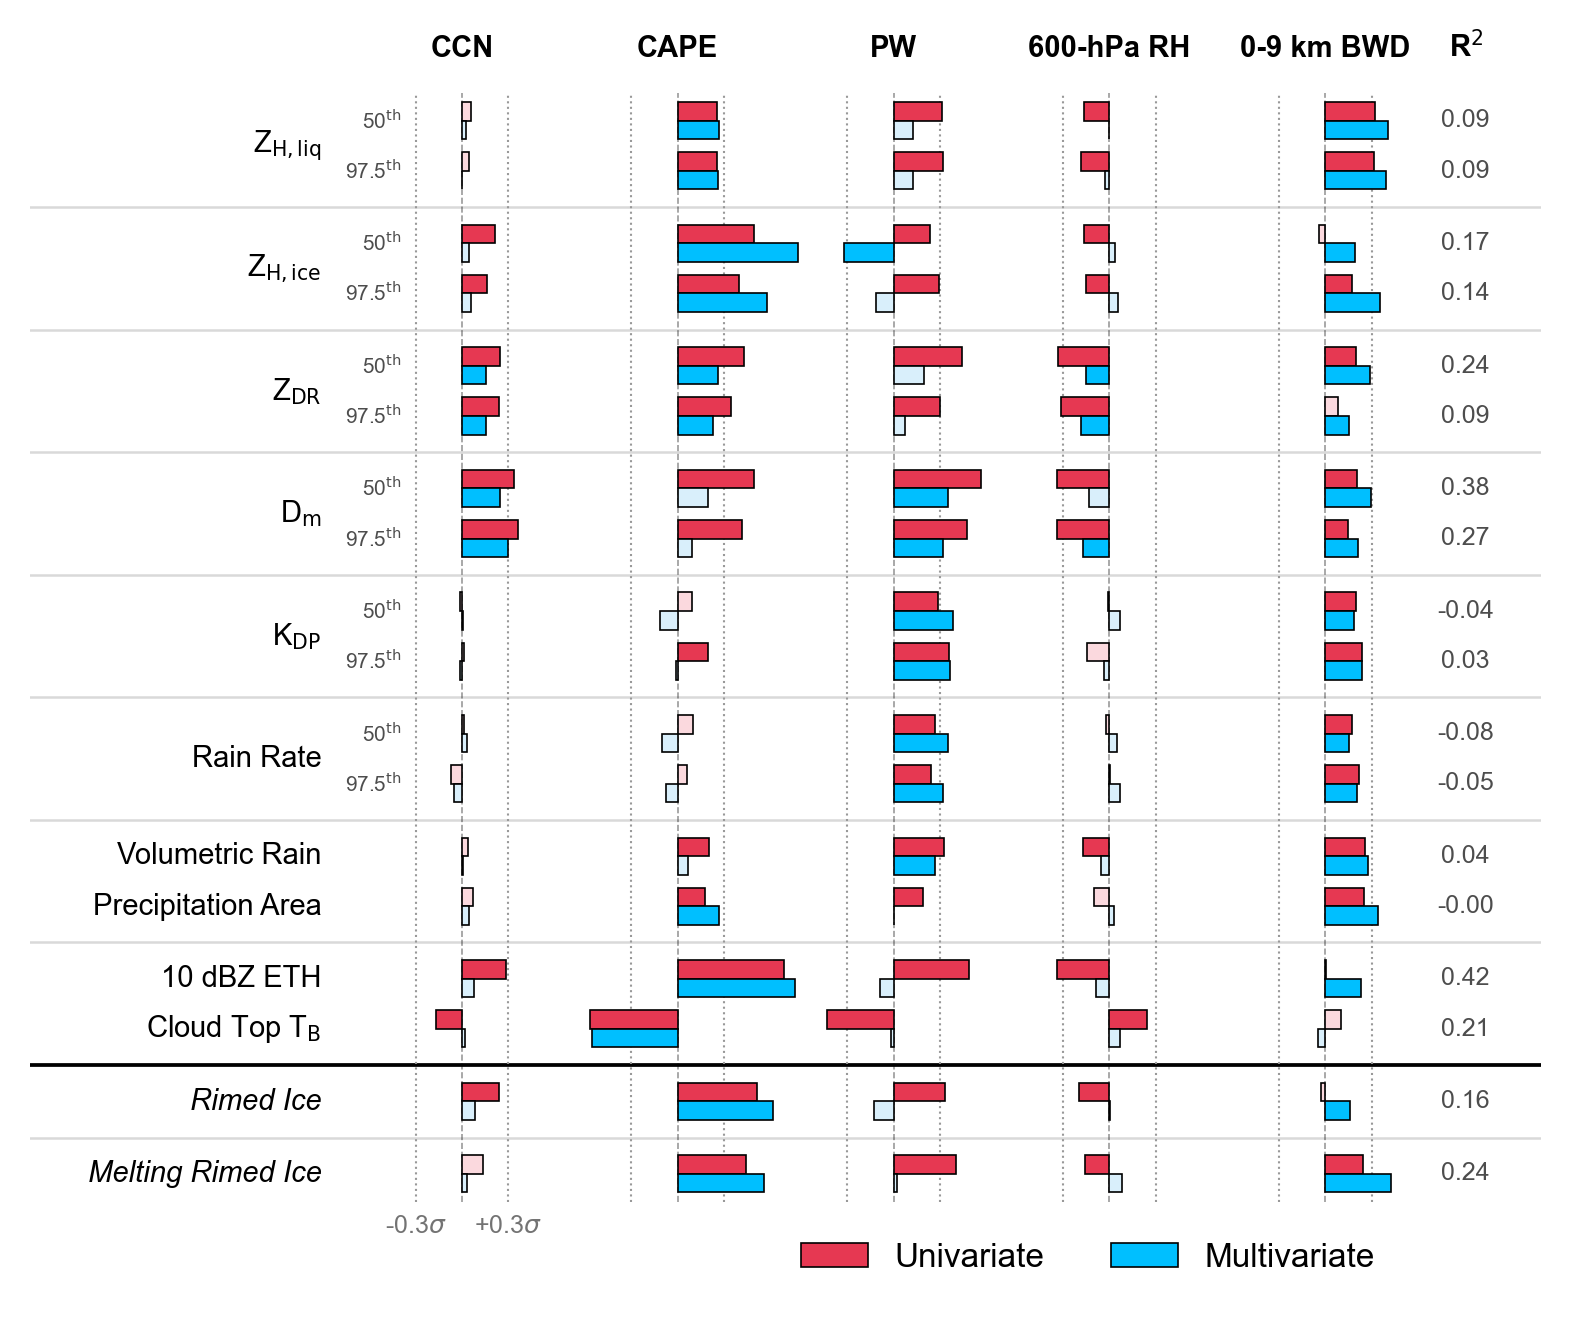
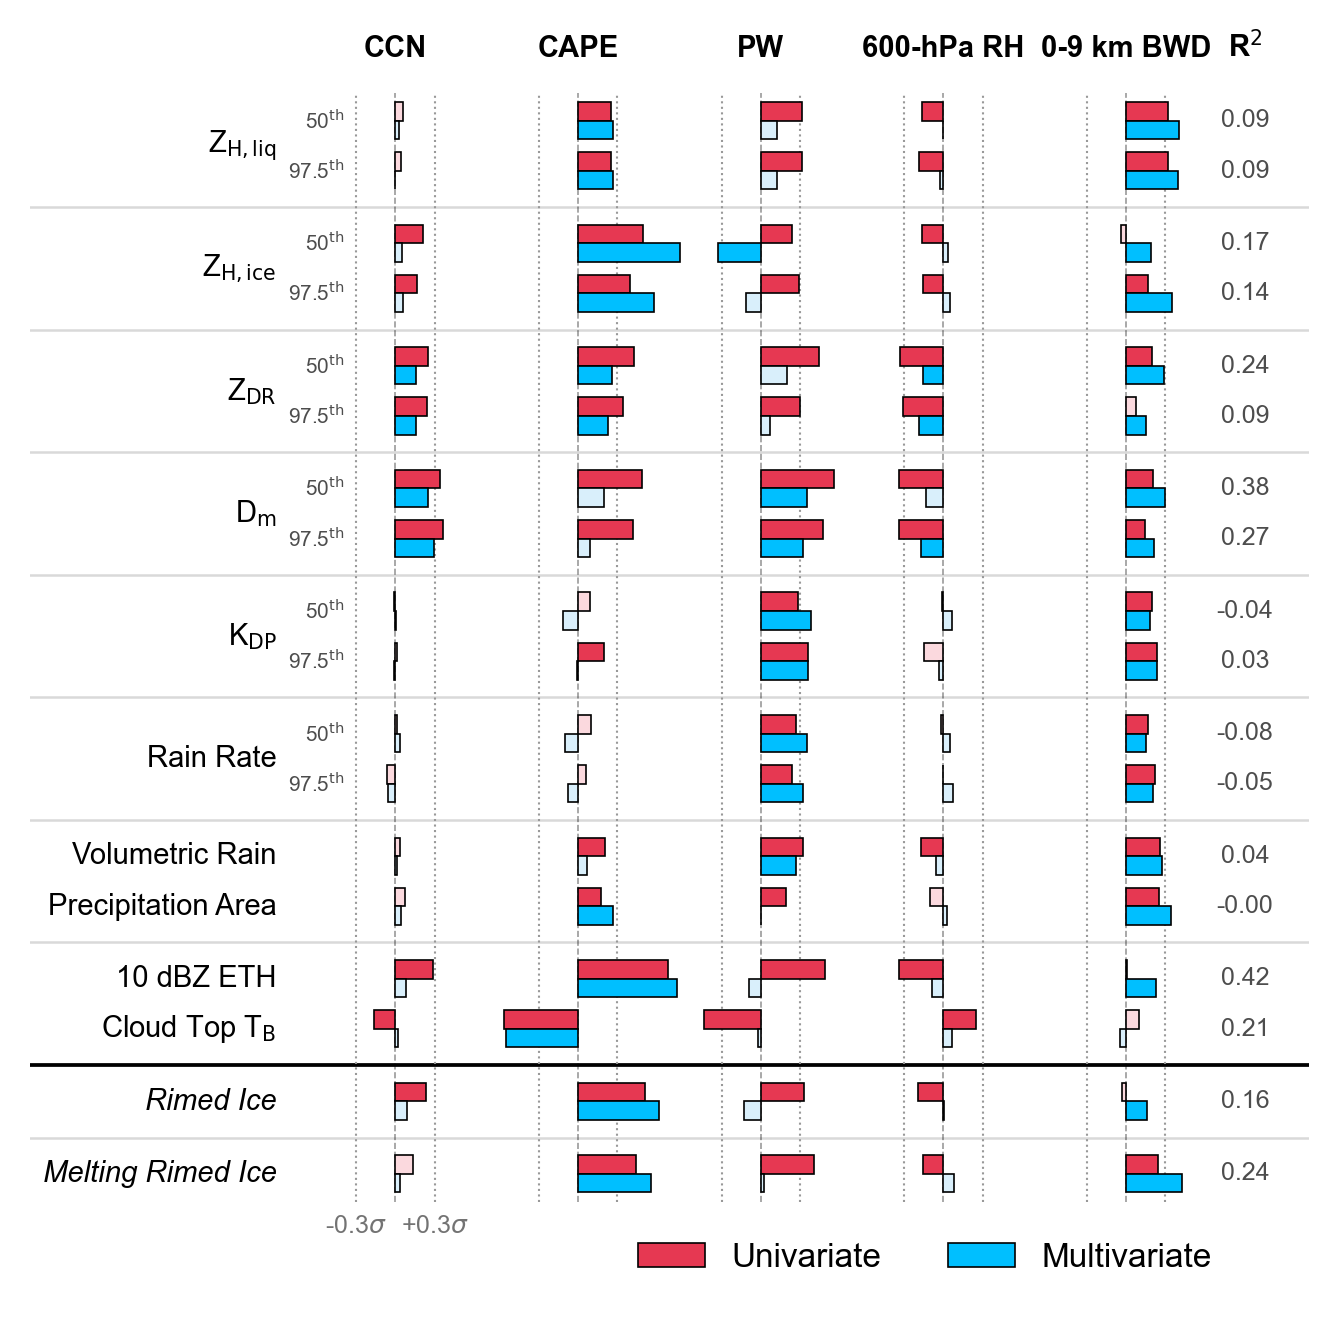
Minor figure changes - Figure width in lingress - Figure panel removal in pies - Figure axis relabeled in csec

diff --git a/scripts/plots_pies.py b/scripts/plots_pies.py
@@ -75,10 +75,12 @@ COLOR_PREDICTOR = {
 
 # Panels, row by row: (title, CI definition, response column). eth_10dbz is the primary CI
 # definition, rainarea a supplementary one; each response uses whichever samples it better.
+# None leaves that slot blank.
 RESPONSES = [
     (r'Z$_{\mathrm{DR,97.5th}}$',       'eth_10dbz', 'zdr_liq_p98'),
     (r'D$_{\mathrm{m,97.5th}}$',        'eth_10dbz', 'Dm_p98'),
-    (r'Z$_{\mathrm{H,liq,97.5th}}$',    'eth_10dbz', 'zh_liq_p98'),
+    # (r'Z$_{\mathrm{H,liq,97.5th}}$',    'eth_10dbz', 'zh_liq_p98'),
+    None,
     (r'Z$_{\mathrm{H,ice,97.5th}}$',    'rainarea',  'zh_frz_p98'),
     ('Rimed Ice',                       'rainarea',  'rime_frz'),
     # ('10-dBZ ETH',                      'rainarea',  'max_echotop_10dbz'),
@@ -118,7 +120,7 @@ def fit_panels(ci_var, cols):
 if config['refresh'] or not os.path.exists(CACHE_PATH):
     # One fit per CI definition
     by_ci = {}
-    for _, ci_var, col in RESPONSES:
+    for _, ci_var, col in filter(None, RESPONSES):
         by_ci.setdefault(ci_var, []).append(col)
 
     coef_multi = xr.concat([fit_panels(ci_var, cols) for ci_var, cols in by_ci.items()],
@@ -141,7 +143,16 @@ i_lo, i_hi = 0, len(pct) - 1
 fig, axes = plt.subplots(N_ROWS, N_COLS, figsize=FIG_SIZE)
 axes      = axes.ravel()
 
-for i_panel, (ax, (title, ci_var, col)) in enumerate(zip(axes, RESPONSES)):
+i_letter = 0
+for ax, resp in zip(axes, RESPONSES):
+    if resp is None:
+        # Invisible full pie: same axes limits as the drawn panels, and still counts
+        # toward the row extent so the label and legend stay put
+        wedges, _ = ax.pie([1], startangle=START_ANGLE, counterclock=False)
+        for w in wedges:
+            w.set_visible(False)
+        continue
+    title, ci_var, col = resp
     panel = coef_multi.sel(panel=panel_key(ci_var, col), predictor=lst).values
     med         = panel[i_med, :]
     lo, hi      = panel[i_lo, :], panel[i_hi, :]
@@ -185,8 +196,9 @@ for i_panel, (ax, (title, ci_var, col)) in enumerate(zip(axes, RESPONSES)):
 
     ax.set_title(title, fontsize=10, pad=TITLE_PAD)
     # Panel letter as the left title, so it shares the title's baseline
-    ax.set_title(f'({chr(ord("a") + i_panel)})', loc='left',
+    ax.set_title(f'({chr(ord("a") + i_letter)})', loc='left',
                  fontsize=PANEL_LABEL_SIZE, pad=TITLE_PAD)
+    i_letter += 1
 
 # Separate colour (predictor) and pattern (coefficient) legends, so hatched swatches don't
 # read as extra predictors
@@ -202,6 +214,18 @@ handles_pattern = [
 ]
 
 fig.subplots_adjust(wspace=WSPACE, hspace=HSPACE)
+
+# Centre a row's drawn panels under the full row by shifting them right by half a column per
+# blank slot (blank slots are assumed to sit at the row's end)
+col_step = axes[1].get_position().x0 - axes[0].get_position().x0
+for i_row in range(N_ROWS):
+    row      = RESPONSES[i_row * N_COLS:(i_row + 1) * N_COLS]
+    n_blank  = N_COLS - sum(r is not None for r in row)
+    for j, r in enumerate(row):
+        if r is not None and n_blank:
+            ax  = axes[i_row * N_COLS + j]
+            pos = ax.get_position()
+            ax.set_position([pos.x0 + n_blank * col_step / 2, pos.y0, pos.width, pos.height])
 
 # Label each row with its CI definition (taken from its first panel), with a legend below:
 # colours by the top row, patterns by the bottom. Row extents come from the wedges and
@@ -244,4 +268,4 @@ plt.close('all')
 print(f"Wrote {plots_dir}/lingress_pies{mask_sfx}.png")
 
 print('\nCaption line (panels are drawn from two different CI definitions):')
-print('  ' + '; '.join(f'{col} ({ci_var})' for _, ci_var, col in RESPONSES))
+print('  ' + '; '.join(f'{col} ({ci_var})' for _, ci_var, col in filter(None, RESPONSES)))

diff --git a/scripts/plots_csec.py b/scripts/plots_csec.py
@@ -56,7 +56,7 @@ if xaxis == 'along':
 elif xaxis == 'zonal':
     if ykm1 != ykm2:
         sys.exit(f"xaxis='zonal' needs a zonal section (ykm1 == ykm2), got {ykm1}, {ykm2}")
-    xcoord, xlabel = xkm1 + dist / length * (xkm2 - xkm1), 'Zonal Distance from Radar (km)'
+    xcoord, xlabel = xkm1 + dist / length * (xkm2 - xkm1), 'Zonal Distance (km)'
 elif xaxis == 'meridional':
     if xkm1 != xkm2:
         sys.exit(f"xaxis='meridional' needs a meridional section (xkm1 == xkm2), got {xkm1}, {xkm2}")

diff --git a/scripts/plots_lingress.py b/scripts/plots_lingress.py
@@ -116,7 +116,7 @@ GAP_BETWEEN_RESPONSES = MODES[mode]['gap_resp']
 GAP_BETWEEN_BANDS     = MODES[mode]['gap_band']
 
 # Height = total_extent * FIG_INCHES_PER_Y, so bar thickness is fixed however many rows
-FIG_WIDTH        = 6.5
+FIG_WIDTH        = 5.5
 FIG_INCHES_PER_Y = 0.117
 
 HEADER_GAP = 1.5  # top of first bar to column headers, y data units
